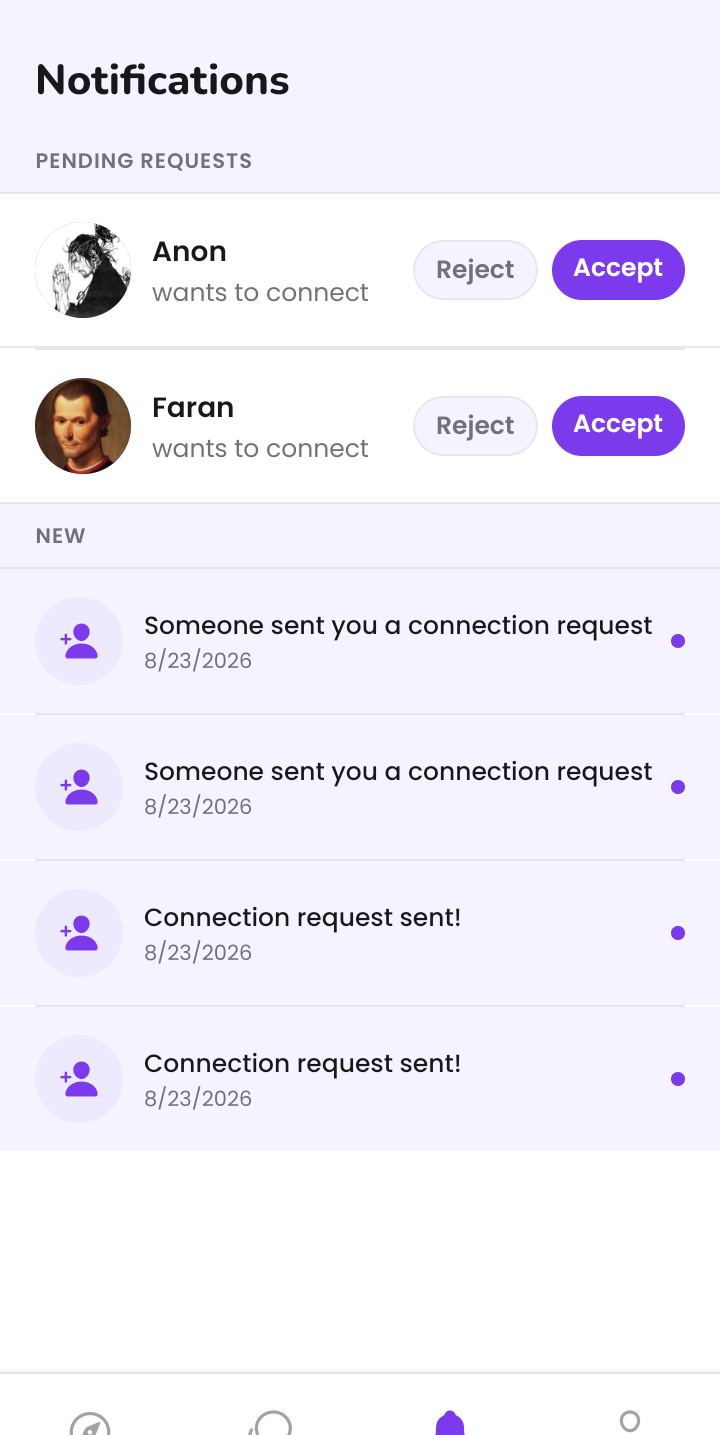
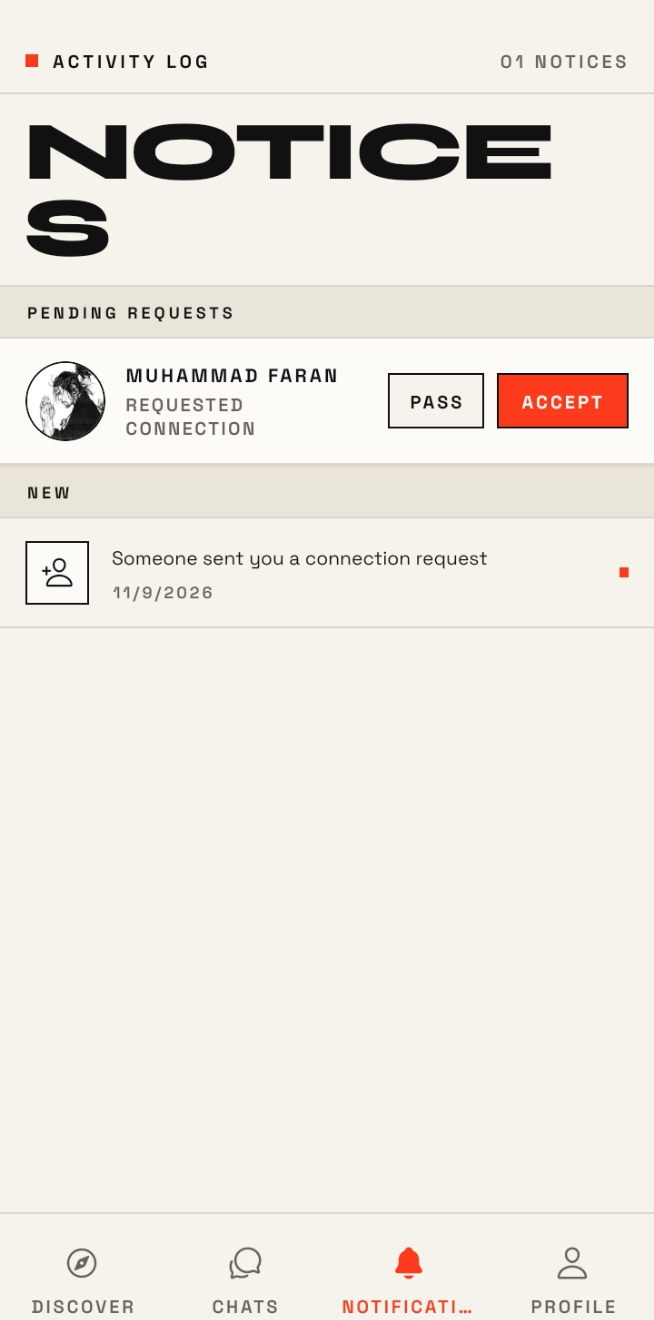
feat: added more projects

diff --git a/app/page.tsx b/app/page.tsx
@@ -216,42 +216,52 @@ const PROJECTS: Project[] = [
       {
         url: "/projects/kenzoku.png",
         label: "Discover Feed",
-        alt: "Kenzoku mobile app user discovery interface with passion matching tags",
+        alt: "Kenzoku mobile app user discovery interface showing profile card with shared passions and connect action",
+      },
+      {
+        url: "/projects/kenzoku-discover-zarak.png",
+        label: "Candidate Match",
+        alt: "Kenzoku discovery card showing candidate profile with tech and startups passion tags",
+      },
+      {
+        url: "/projects/kenzoku-discover-nick.png",
+        label: "Dossier Preview",
+        alt: "Kenzoku discovery card showing niche anime and tech interests with dossier button",
       },
       {
         url: "/projects/kenzoku-interests.png",
-        label: "Interests",
-        alt: "Kenzoku interest tag selection interface",
+        label: "Passion Index",
+        alt: "Kenzoku passion index tag selection interface to calculate kindred compatibility",
       },
       {
         url: "/projects/kenzoku-profile-setup.png",
-        label: "Profile Setup",
-        alt: "Kenzoku profile creation and bio setup screen",
-      },
-      {
-        url: "/projects/kenzoku-chats.png",
-        label: "Direct Chats",
-        alt: "Kenzoku direct peer messaging screen",
+        label: "Identity Dossier",
+        alt: "Kenzoku identity dossier onboarding screen for portrait, bio, motives, and location",
       },
       {
         url: "/projects/kenzoku-notifications.png",
-        label: "Notifications",
-        alt: "Kenzoku connection requests and activity notifications screen",
+        label: "Activity Notices",
+        alt: "Kenzoku activity log showing pending connection requests with pass and accept options",
+      },
+      {
+        url: "/projects/kenzoku-chats.png",
+        label: "Dispatch Index",
+        alt: "Kenzoku message channels list and dispatch search interface",
+      },
+      {
+        url: "/projects/kenzoku-chat-thread.png",
+        label: "Encrypted Chat",
+        alt: "Kenzoku direct encrypted messaging thread with shared passion indicator",
+      },
+      {
+        url: "/projects/kenzoku-moderation.png",
+        label: "Safety Controls",
+        alt: "Kenzoku user options and block dialog for trust and safety",
       },
       {
         url: "/projects/kenzoku-welcome.png",
-        label: "Welcome",
-        alt: "Kenzoku onboarding welcome screen",
-      },
-      {
-        url: "/projects/kenzoku-signup.png",
-        label: "Create Account",
-        alt: "Kenzoku account registration screen",
-      },
-      {
-        url: "/projects/kenzoku-login.png",
-        label: "Login",
-        alt: "Kenzoku user login and password recovery screen",
+        label: "Welcome Screen",
+        alt: "Kenzoku onboarding welcome screen with Find Your People branding",
       },
     ],
     link: "#",
@@ -304,6 +314,187 @@ const PROJECTS: Project[] = [
         url: "https://github.com/m-faran/genie-markets",
       },
     ],
+  },
+  {
+    id: "stormpkr",
+    specId: "SPEC-07",
+    title: "StormPKR",
+    tagline: "Mobile crypto wallet for Pakistan's PKR-pegged stablecoin ($SPKR) featuring gasless Base transactions and seedless onboarding.",
+    category: "mobile",
+    categoryLabel: "Mobile",
+    status: "testing",
+    statusText: "CLOSED TESTING",
+    image: "/projects/stormpkr.png",
+    imageAlt: "StormPKR mobile wallet dashboard displaying PKR balance, quick actions, and gasless Base network status",
+    gallery: [
+      {
+        url: "/projects/stormpkr.png",
+        label: "Wallet Balance",
+        alt: "StormPKR wallet dashboard showing Rs 10,000 balance and gasless Base status",
+      },
+      {
+        url: "/projects/stormpkr-send.png",
+        label: "Gas-Free Send",
+        alt: "StormPKR send token screen with gas-free transfer powered by Thirdweb",
+      },
+      {
+        url: "/projects/stormpkr-confirm.png",
+        label: "Confirm Transfer",
+        alt: "StormPKR transaction confirmation screen showing free gas fee on Base network",
+      },
+      {
+        url: "/projects/stormpkr-success.png",
+        label: "Gasless Success",
+        alt: "StormPKR success modal showing tokens sent gaslessly on Base",
+      },
+      {
+        url: "/projects/stormpkr-history.png",
+        label: "Transaction History",
+        alt: "StormPKR transaction history screen with sent and received transfer ledger",
+      },
+      {
+        url: "/projects/stormpkr-deposit.png",
+        label: "Fiat & Token Ramps",
+        alt: "StormPKR deposit screen with EasyPaisa, JazzCash, and bank transfer payment rails",
+      },
+      {
+        url: "/projects/stormpkr-welcome.png",
+        label: "Welcome Screen",
+        alt: "StormPKR splash screen showcasing Pakistan's first PKR-pegged stablecoin",
+      },
+      {
+        url: "/projects/stormpkr-create-wallet.png",
+        label: "Seedless Onboarding",
+        alt: "StormPKR seedless wallet creation screen via Google, Apple, or recovery phrase",
+      },
+      {
+        url: "/projects/stormpkr-import-wallet.png",
+        label: "Import Wallet",
+        alt: "StormPKR import wallet options via recovery phrase or social accounts",
+      },
+      {
+        url: "/projects/stormpkr-pin.png",
+        label: "PIN Authentication",
+        alt: "StormPKR 6-digit PIN security lock screen to protect wallet access",
+      },
+      {
+        url: "/projects/stormpkr-settings.png",
+        label: "Wallet Settings",
+        alt: "StormPKR settings screen showing wallet address, Base network selector, and security controls",
+      },
+    ],
+    link: "#",
+    isExternalLink: false,
+    githubPrivate: true,
+  },
+  {
+    id: "stormpkr-web",
+    specId: "SPEC-08",
+    title: "StormPKR Website",
+    tagline: "Marketing landing portal, regulatory CNIC KYC onboarding flow, and customer support hub for the StormPKR mobile ecosystem.",
+    category: "web",
+    categoryLabel: "Web",
+    status: "live",
+    statusText: "LIVE",
+    image: "/projects/stormpkr-web.png",
+    imageAlt: "StormPKR web landing page hero showcasing instant rupee transfers without banks and 3D coin visual",
+    gallery: [
+      {
+        url: "/projects/stormpkr-web.png",
+        label: "Landing (Hero)",
+        alt: "StormPKR web landing page hero showcasing instant rupee transfers without banks and 3D coin visual",
+      },
+      {
+        url: "/projects/stormpkr-web-features.png",
+        label: "Feature Architecture",
+        alt: "StormPKR feature grid highlighting 1:1 rupee peg, instant transfers, no hidden fees, and transparency",
+      },
+      {
+        url: "/projects/stormpkr-web-cta.png",
+        label: "Conversion Banner",
+        alt: "StormPKR dark contrast conversion call-to-action banner and platform navigation footer",
+      },
+      {
+        url: "/projects/stormpkr-web-faq.png",
+        label: "FAQ & Waitlist",
+        alt: "StormPKR frequently asked questions accordion and early access waitlist signup form",
+      },
+      {
+        url: "/projects/stormpkr-web-kyc.png",
+        label: "KYC Compliance Hub",
+        alt: "StormPKR regulatory CNIC identity verification overview and compliance requirements screen",
+      },
+      {
+        url: "/projects/stormpkr-web-kyc-form.png",
+        label: "KYC Form Flow",
+        alt: "StormPKR CNIC personal information entry and document upload multi-step onboarding form",
+      },
+      {
+        url: "/projects/stormpkr-web-support.png",
+        label: "Customer Support Desk",
+        alt: "StormPKR customer helpdesk portal with direct WhatsApp messaging and email support channels",
+      },
+    ],
+    link: "#",
+    isExternalLink: false,
+    githubPrivate: true,
+  },
+  {
+    id: "kenzoku-web",
+    specId: "SPEC-09",
+    title: "Kenzoku Website",
+    tagline: "Atmospheric narrative landing portal with depth-strata storytelling and interest-first social discovery for the Kenzoku mobile ecosystem.",
+    category: "web",
+    categoryLabel: "Web",
+    status: "live",
+    statusText: "LIVE",
+    image: "/projects/kenzoku-web.png",
+    imageAlt: "Kenzoku landing page hero with twilight firefly visual and interest-based matchmaking value proposition",
+    gallery: [
+      {
+        url: "/projects/kenzoku-web.png",
+        label: "Landing (Hero)",
+        alt: "Kenzoku landing page hero with twilight firefly visual and interest-based matchmaking value proposition",
+      },
+      {
+        url: "/projects/kenzoku-web-problem.png",
+        label: "The Problem (Stratum I)",
+        alt: "Kenzoku interactive narrative section dissecting algorithmic monetization and performative social feeds",
+      },
+      {
+        url: "/projects/kenzoku-web-clearing.png",
+        label: "Shared Obsession (Stratum II)",
+        alt: "Kenzoku narrative stratum explaining isolation on modern platforms and kindred interest synchronization",
+      },
+      {
+        url: "/projects/kenzoku-web-artifacts.png",
+        label: "Niche Passions (Stratum III)",
+        alt: "Kenzoku niche passion artifacts showcase highlighting analog photography, vinyl audio, and craft hobbies",
+      },
+      {
+        url: "/projects/kenzoku-web-anti-clout.png",
+        label: "Anti-Clout Design (Stratum IV)",
+        alt: "Kenzoku anti-clout design philosophy with buried like counters and zero follower rankings",
+      },
+      {
+        url: "/projects/kenzoku-web-safety.png",
+        label: "Safety Sanctuary (Stratum V)",
+        alt: "Kenzoku safety architecture featuring 18+ verification and consent-gated one-to-one boundary shielding",
+      },
+      {
+        url: "/projects/kenzoku-web-bedrock.png",
+        label: "Living Bedrock (Stratum VI)",
+        alt: "Kenzoku Japanese etymology exploration illustrating deep kindred connection through glowing roots",
+      },
+      {
+        url: "/projects/kenzoku-web-cta.png",
+        label: "Call to Action & Footer",
+        alt: "Kenzoku conversion section with mobile store availability badges, copyright, and compliance links",
+      },
+    ],
+    link: "#",
+    isExternalLink: false,
+    githubPrivate: true,
   },
 ];
 
